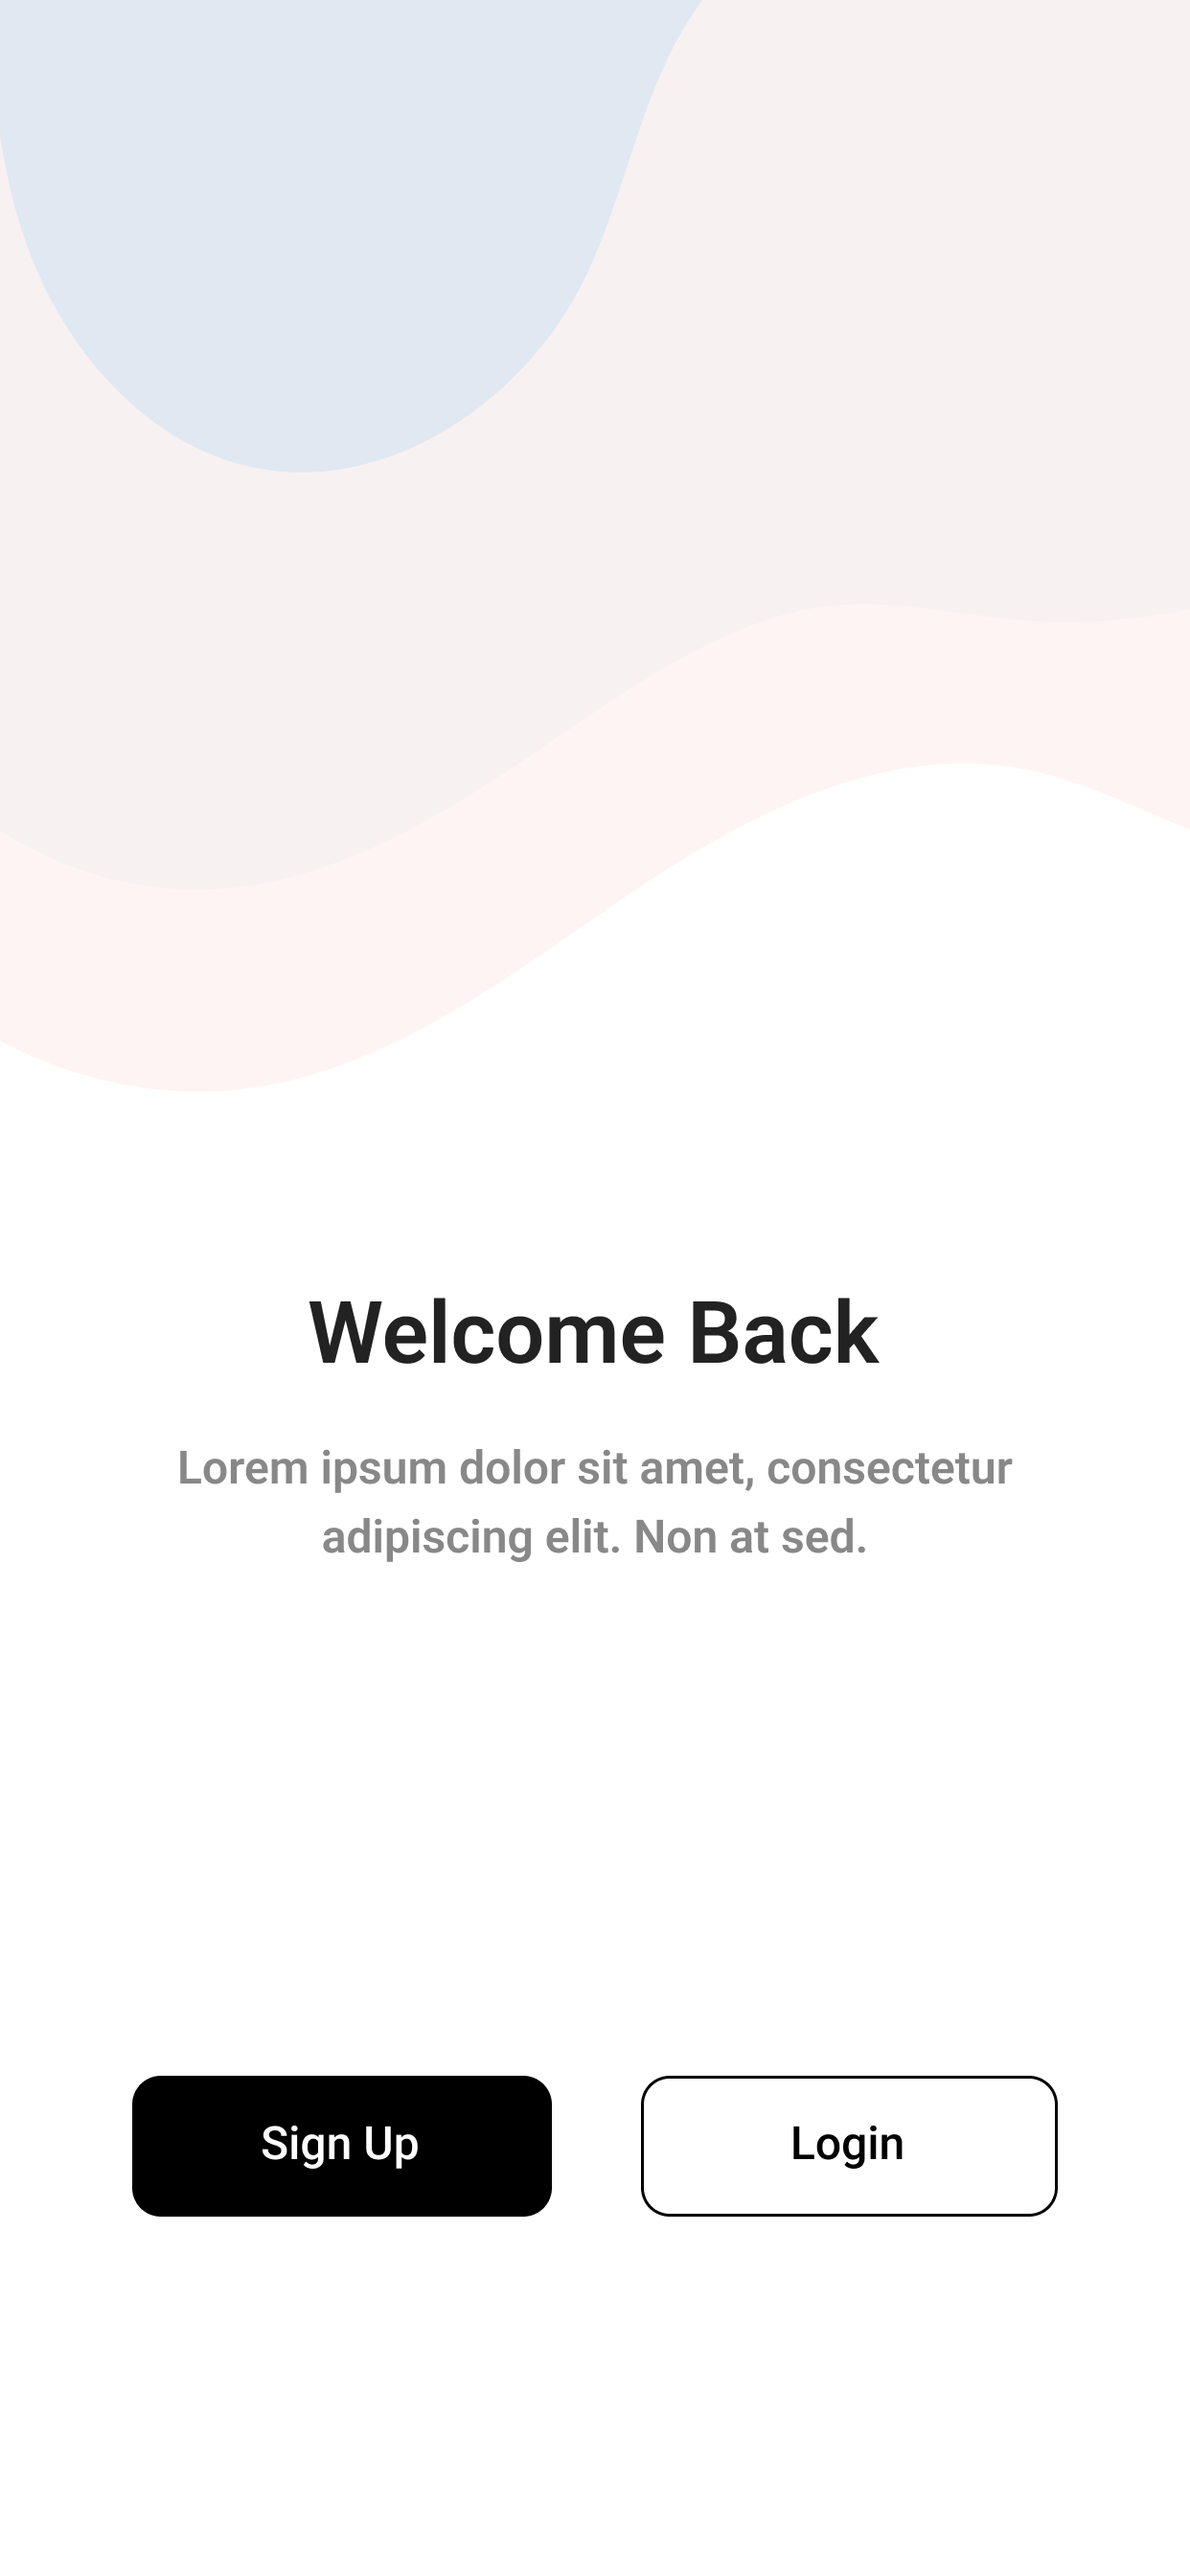
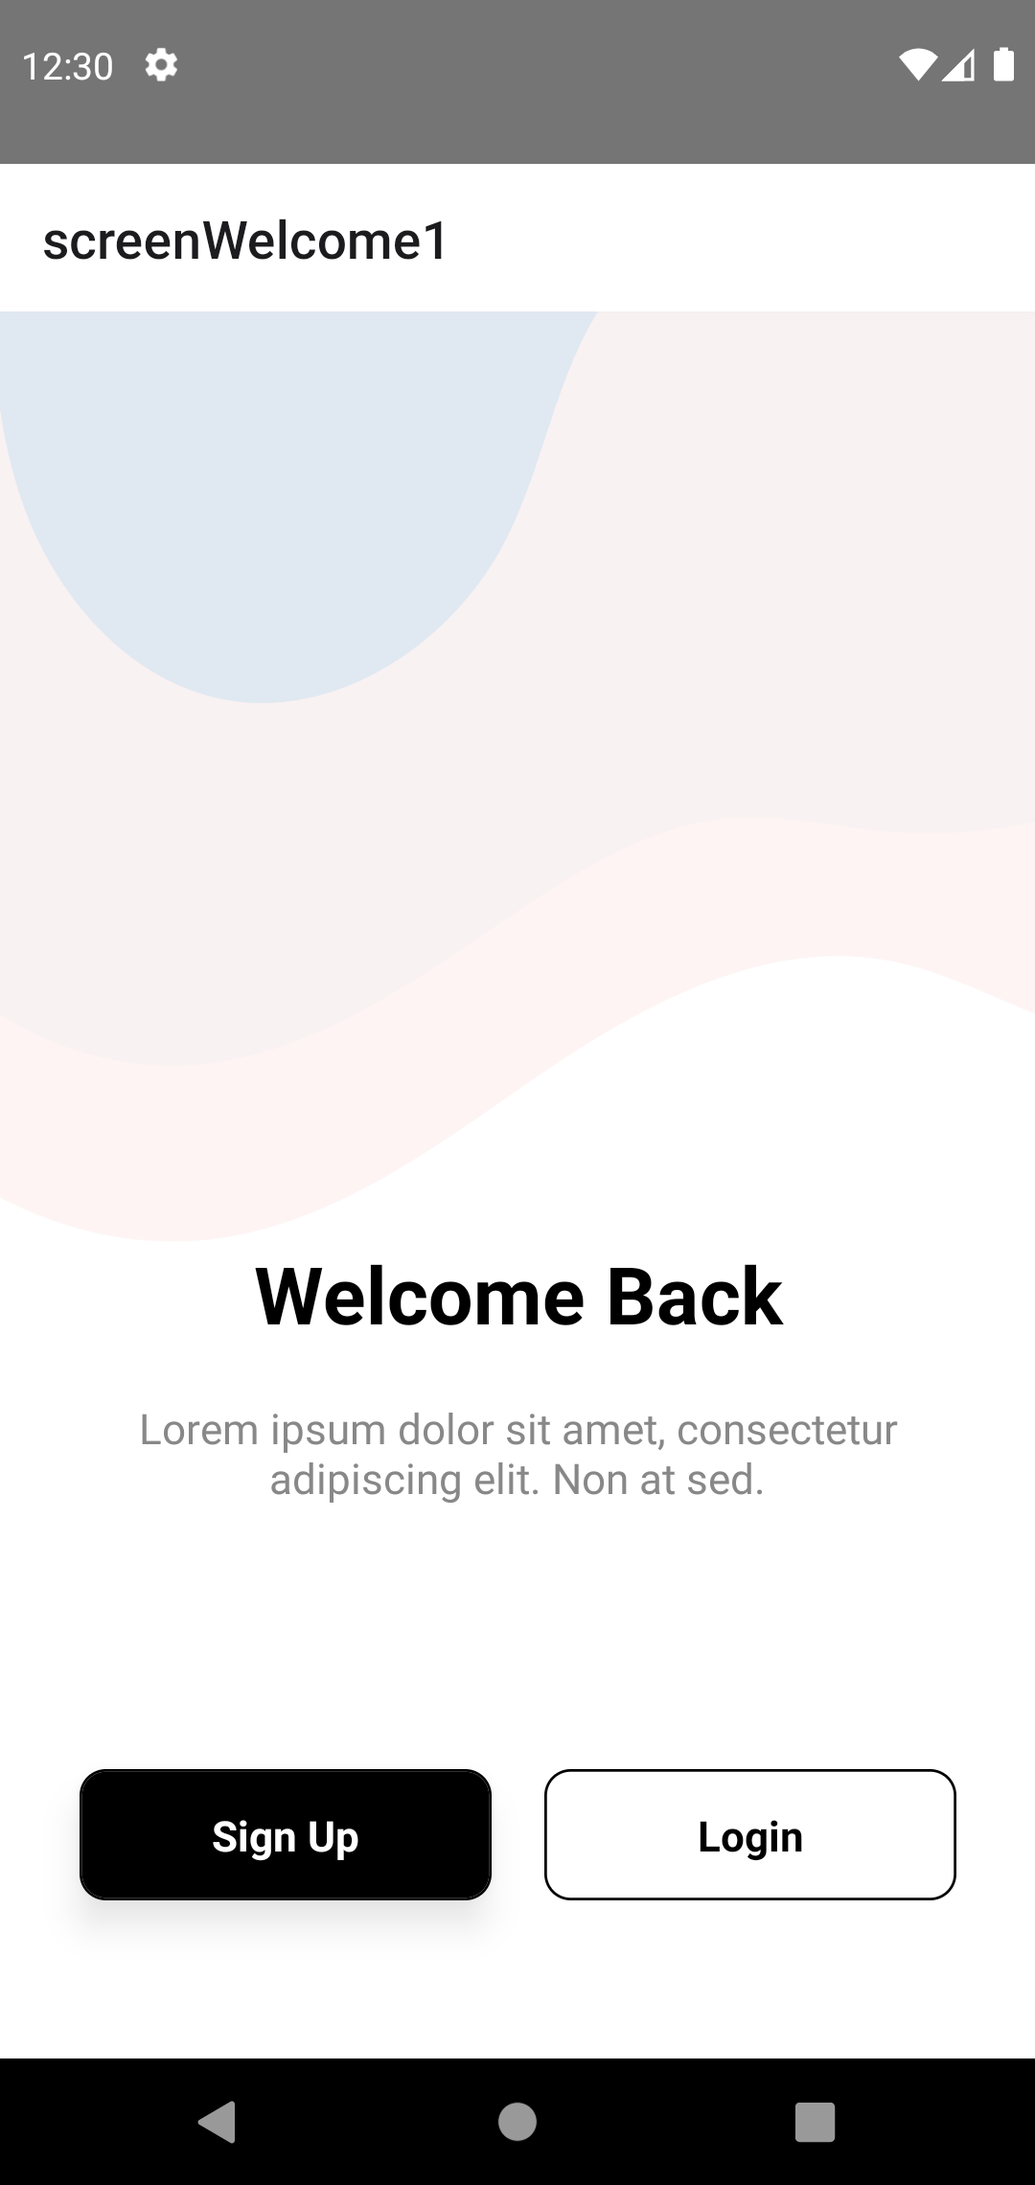
screen welcome 1 added

diff --git a/screens/screen-welcome-1/index.js b/screens/screen-welcome-1/index.js
@@ -2,24 +2,142 @@ import React from "react";
 import {
   Text,
   View,
-  StyleSheet
+  StyleSheet,
+  ImageBackground,
+  Dimensions,
+  Pressable
 } from "react-native";
+
+const windowWidth = Dimensions.get("window").width;
+const windowHeight = Dimensions.get("window").height;
 
 const Welcome1 = () => {
   return (
-    <View style={styles.container}>
-      <Text style={styles.heading}>Welcome-1</Text>
-    </View>
+    <ImageBackground
+      style={styles.container}
+      source={require("./assets/background.png")}
+      imageStyle={styles.background}>
+      <Text style={styles.heading}>Welcome Back</Text>
+      <Text style={styles.description}>
+        Lorem ipsum dolor sit amet, consectetur adipiscing elit. Non at sed.
+      </Text>
+      <View style={styles.buttonContainer}>
+        <Button buttonText="Sign Up" style={styles.button} />
+        <Button
+          buttonText="Login"
+          style={styles.button}
+          borderColor="#000"
+          backgroundColor="#fff"
+          textColor="#000"
+          hideShadow
+        />
+      </View>
+    </ImageBackground>
   );
 };
 const styles = StyleSheet.create({
   container: {
     flex: 1,
-    backgroundColor: "#fff"
+    backgroundColor: "#fff",
+    width: windowWidth,
+    height: windowHeight,
+    justifyContent: "flex-end"
   },
   heading: {
-    fontSize: 20
+    fontSize: 30,
+    fontWeight: "bold",
+    color: "#000",
+    textAlign: "center"
+  },
+  description: {
+    fontSize: 16,
+    color: "#888888",
+    textAlign: "center",
+    paddingHorizontal: 20,
+    marginTop: 20
+  },
+  buttonContainer: {
+    flexDirection: "row",
+    justifyContent: "space-between",
+    paddingHorizontal: 20,
+    marginBottom: 60,
+    marginTop: 100
+  },
+  button: {
+    flex: 1,
+    marginHorizontal: 10
+  },
+  background: {
+    resizeMode: "contain",
+    top: -100,
+    left: 0,
+    right: 0,
+    position: "absolute"
   }
 });
 
 export default Welcome1;
+
+const Button = params => {
+  const backgroundColor = params.backgroundColor || "#000";
+  const textColor = params.textColor || "#fff";
+  const btnStyle = {
+    backgroundColor: backgroundColor,
+    borderColor: params.borderColor || backgroundColor,
+    borderWidth: 1
+  };
+  const btnText = {
+    color: textColor
+  };
+  return (
+    <View style={[buttonStyles.btnContainer, params.style]}>
+      <View style={!params.hideShadow ? buttonStyles.shadowContainer : null}>
+        <Pressable
+          style={[buttonStyles.btn, btnStyle]}
+          onPress={params.onPress}>
+          <Text style={[buttonStyles.btnText, btnText]}>
+            {params.buttonText}
+          </Text>
+          <View style={styles.childrenContainer}>{params.children}</View>
+        </Pressable>
+      </View>
+    </View>
+  );
+};
+
+const buttonStyles = StyleSheet.create({
+  btnContainer: {
+    justifyContent: "center"
+  },
+  shadowContainer: {
+    shadowColor: "rgba(0, 0, 0, 0.5)",
+    shadowOffset: {
+      width: 0,
+      height: 5
+    },
+    shadowOpacity: 0.5,
+    shadowRadius: 10,
+    elevation: 10,
+    backgroundColor: "#fff",
+    borderRadius: 10
+  },
+  btn: {
+    height: 50,
+    padding: 10,
+    paddingHorizontal: 25,
+    borderRadius: 10,
+    justifyContent: "center",
+    alignItems: "center",
+
+    flexDirection: "row"
+  },
+  btnText: {
+    color: "#fff",
+    fontSize: 16,
+    fontWeight: "bold"
+  },
+  childrenContainer: {
+    justifyContent: "center",
+    alignItems: "center"
+  }
+});

diff --git a/modules/index.js b/modules/index.js
@@ -2,7 +2,7 @@ import mods from "./*/index.js";
 import { getModules } from "./modules.js";
 
 export const modules = getModules(mods);
-export const initialRoute = "screenVideoCallPeopleList";
+export const initialRoute = "screenWelcome1";
 // export const initialRoute = modules[0].value.title;
 export const slices = modules
   .filter(mod => mod.value.slice)
